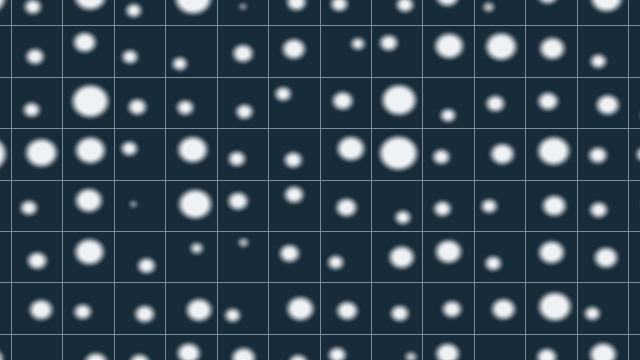
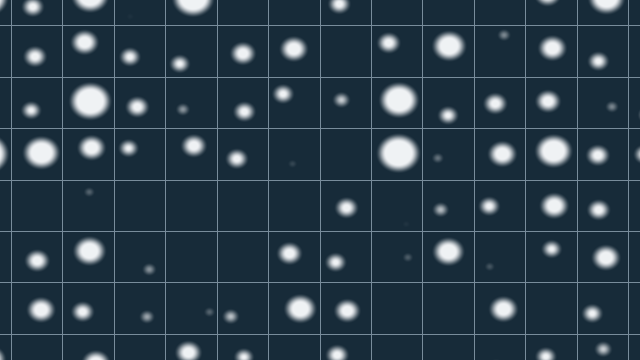
Glasses write-up: corrected refraction and gameplay text, clean diagrams, render script

diff --git a/Farsight_Glasses.html b/Farsight_Glasses.html
@@ -6,7 +6,7 @@
   <meta content="width=device-width, initial-scale=1.0" name="viewport">
 
   <title>Farsight - Rain on Glasses Shader</title>
-  <meta content="How the rain-on-glasses lens pass in Farsight works: a single URP screen pass with procedural drops that refract out-of-focus copies of the frame." name="description">
+  <meta content="How the rain-on-glasses lens pass in Farsight works: a URP screen effect with procedural drops that refract out-of-focus copies of the frame." name="description">
   <meta property="og:title" content="Rain on Glasses Shader | Anchit Sharma">
   <meta property="og:description" content="How the rain-on-glasses lens pass in Farsight works.">
   <meta property="og:type" content="website">
@@ -67,39 +67,43 @@
 <dd>Unity URP, HLSL, C#</dd>
 </dl></header><article class="project-copy project-writeup">
 
-<figure class="project-figure"><img src="assets/img/farsight/techart/farsight-glasses-lens-split.webp" alt="The same shot with the lens pass off on the left and on on the right" class="project-figure-image" decoding="async"><figcaption>Lens pass off on the left, on on the right.</figcaption></figure>
+<figure class="project-figure"><img src="assets/img/farsight/techart/farsight-glasses-lens-split.webp" alt="The same shot with the lens pass off on the left and on on the right" class="project-figure-image" decoding="async"><figcaption>Left: lens effect off. Right: on.</figcaption></figure>
 
 <h3 class="project-section-title">The goal</h3>
-<p>In Farsight you're wearing glasses, and it rains a lot. We wanted the rain to actually collect on your glasses when you're outside, as a small touch that makes you feel like you're there.</p>
+<p>In Farsight you're wearing glasses, and it rains a lot. I wanted the rain to actually collect on your glasses when you're outside, so it gets harder to see and the umbrella has a job to do.</p>
 <p>Since the drops are right in front of your eyes, they should be blurry and warp what's behind them. And they should react to you: building up when you're out in the open, drying once you head inside, and staying off while your umbrella's up.</p>
 
 <h3 class="project-section-title">How it works</h3>
-<p>It's a single full-screen pass on the player camera. No textures, no particles. It runs before post-processing, so bloom and grading hit the drops the same way they hit everything else. There are three parts to it: where the drops go, what each drop looks like, and how wet your glasses are.</p>
+<p>It's a full-screen effect on the player camera: two small blurred copies of the frame, then one pass that draws the drops. No drop textures, no particles. The drops are fixed to the screen, because your glasses move with your head. It runs before post-processing, so bloom and grading hit the drops the same way they hit everything else. There are three parts to it: where the drops go, what each drop looks like, and how wet your glasses are.</p>
 
 <h3 class="project-section-title">1. Placing the drops</h3>
-<p>The screen gets split into a grid, and each cell turns its position into a random number. That number picks whether there's a drop in the cell, how big it is and where it sits. Drops always stay inside their cell, so none of them get cut off at the edges.</p>
-<div class="project-figure figure-row"><img src="assets/img/farsight/glasses/gen-1-cells.png" alt="Screen divided into cells, each shaded by its random value" loading="lazy" decoding="async" style="image-rendering:auto"><img src="assets/img/farsight/glasses/gen-2-drop-per-cell.png" alt="One soft circle per grid cell" loading="lazy" decoding="async" style="image-rendering:auto"></div>
-<figure class="project-figure" style="margin-top:-24px"><figcaption>A random value per cell, then one drop per cell. These show the layout only.</figcaption></figure>
-<p>Three grids are stacked on top of each other for big, medium and small drops. The edge blur is the same width no matter how big the drop is, so the small ones are basically all blur. They end up as faint smudges, which is pretty much what tiny droplets look like on real glasses.</p>
+<p>The screen gets split into a grid, and each cell turns its position into a few random numbers. Those pick how big the cell's drop is, where it sits, and how early it shows up as the glasses get wet. To keep it cheap, each pixel only checks its own cell. That means a drop has to stay inside its cell, or it would get cut off at the edge.</p>
+<div class="project-figure figure-row"><img src="assets/img/farsight/glasses/gen-1-cells.png" alt="Screen divided into cells, each shaded by its random value" loading="lazy" decoding="async" style="image-rendering:auto"><img src="assets/img/farsight/glasses/gen-2-drop-per-cell.png" alt="Soft circles in a grid, at most one per cell, with some cells empty" loading="lazy" decoding="async" style="image-rendering:auto"></div>
+<figure class="project-figure" style="margin-top:-24px"><figcaption>A random value per cell, then at most one drop per cell. The lightest cells are still empty. Their drop shows up last. These show the layout only.</figcaption></figure>
+<p>A drop can't be bigger than its cell, and a single grid looks regular. So three grids are stacked on top of each other for big, medium and small drops, each with its own cell size and offset. The edge blur is the same width no matter how big the drop is, so the small ones are basically all blur. They end up as faint smudges, which is pretty much what tiny droplets look like on real glasses.</p>
 <figure class="project-figure"><img src="assets/img/farsight/glasses/gen-3-layers.png" alt="Large, medium and small drop layers on a game frame, then combined" class="project-figure-image" loading="lazy" decoding="async"><figcaption>Large, medium and small layers on a frame from the game, then all three together.</figcaption></figure>
 
 <h3 class="project-section-title">2. Drawing a drop</h3>
-<p>Each drop works like a tiny lens. Inside it, we sample the image from a point pushed away from the drop's centre, which flips and bends whatever's behind it.</p>
-<figure class="project-figure"><img src="assets/img/farsight/glasses/gen-5-refraction.png" alt="Checker pattern before and after one drop's refraction" class="project-figure-image" loading="lazy" decoding="async"></figure>
-<p>Blurring every drop separately would be expensive, so instead we make two blurry copies of the whole frame first, at a quarter and a sixteenth of the resolution. The drops sample from those, so they're always soft and it's basically free.</p>
-<div class="project-figure figure-row"><img src="assets/img/farsight/glasses/step-quarter.png" alt="Quarter-resolution copy of the frame" loading="lazy" decoding="async"><img src="assets/img/farsight/glasses/step-sixteenth.png" alt="Sixteenth-resolution copy of the frame" loading="lazy" decoding="async"></div>
+<p>Each drop works like a tiny lens. Inside it, I sample the image from the other side of the drop's centre, so each drop shows a small flipped view of what's behind it. The edge is darkened a little, like the rim of a real drop.</p>
+<figure class="project-figure"><img src="assets/img/farsight/glasses/gen-5-refraction.png" alt="A close crop of a game frame before and after one drop's refraction" class="project-figure-image" loading="lazy" decoding="async"><figcaption>One drop on a game frame, enlarged and shown without the blur. The roof corner comes out flipped.</figcaption></figure>
+<p>Blurring every drop separately would be expensive, so instead I make two blurry copies of the whole frame first, at a quarter and a sixteenth of the width and height. The drops sample from those, so they're always soft, and the blur costs the same however many drops there are.</p>
+<div class="project-figure figure-row"><img src="assets/img/farsight/glasses/step-quarter.png" alt="Quarter-resolution copy of the frame" loading="lazy" decoding="async" style="image-rendering:auto"><img src="assets/img/farsight/glasses/step-sixteenth.png" alt="Sixteenth-resolution copy of the frame" loading="lazy" decoding="async" style="image-rendering:auto"></div>
 <div class="project-figure figure-row"><img src="assets/img/farsight/glasses/step-frame.jpg" alt="Game frame before the lens pass" loading="lazy" decoding="async" style="image-rendering:auto"><img src="assets/img/farsight/glasses/step-result.jpg" alt="Same frame after the lens pass" loading="lazy" decoding="async" style="image-rendering:auto"></div>
 <figure class="project-figure" style="margin-top:-24px"><figcaption>The two blurred copies, then a game frame before and after the pass.</figcaption></figure>
 
 <h3 class="project-section-title">3. How wet the glasses are</h3>
-<p>Everything runs off one wetness value between 0 and 1. Each drop has its own threshold, so as it goes up, drops pop in and grow one at a time, and as it goes down they shrink away again.</p>
-<figure class="project-figure"><img src="assets/img/farsight/glasses/gen-4-wetness.webp" alt="Drops appearing on a game frame as wetness rises, then drying away" class="project-figure-image" loading="lazy" decoding="async"></figure>
-<pre><code>float size = lerp(0.14, 0.4, r2.x * r2.y)
+<p>Everything runs off one wetness value between 0 and 1. Each drop has its own threshold, so as it goes up, drops appear and grow one at a time, and as it goes down they shrink away again.</p>
+<figure class="project-figure"><img src="assets/img/farsight/glasses/gen-4-wetness.webp" alt="Drops appearing on a game frame as wetness rises, then drying away" class="project-figure-image" loading="lazy" decoding="async"><figcaption>Wetness rising from 0 to 1, then drying off again.</figcaption></figure>
+<pre><code>// cover: the wetness value. h: this drop's random threshold.
+// r2: two random numbers. Multiplying them makes small drops more common.
+// * 0.95: every drop has appeared by the time wetness reaches 1.
+// * 5.0: each drop grows in over 0.2 of wetness instead of snapping on.
+float size = lerp(0.14, 0.4, r2.x * r2.y)
            * saturate((cover - h * 0.95) * 5.0);</code></pre>
-<p>A small C# script sets that value based on what you're doing. Outside, your glasses get fully wet in about 25 seconds, and they dry in about 8 once you're indoors. Looking up at the sky gets them wet twice as fast, and looking down slows it right down. The umbrella keeps them dry, until you look up past 35 degrees. Past 60 it doesn't help at all.</p>
+<p>A small C# script sets that value based on what you're doing. It treats you as outside when a ray cast straight up from the camera hits nothing. Out there, your glasses get fully wet in about 25 seconds, and they dry in about 8 once you're indoors. Looking straight up gets them wet twice as fast, and looking straight down a quarter as fast. An open umbrella keeps them dry until you look up past 35 degrees. The umbrella tilts with your view, so from there its cover fades out, and past 60 it doesn't help at all.</p>
 <figure class="project-figure"><img src="assets/img/farsight/techart/farsight-glasses-umbrella.webp" alt="Rain beads on the lenses, the umbrella opens and the lenses dry" class="project-figure-image" loading="lazy" decoding="async"><figcaption>Drops build up, the umbrella opens, and the glasses clear.</figcaption></figure>
 
-<p>The images on this page were rendered with a Python port of the shader, run on frames from the game.</p>
+<p>The diagrams and step-by-step frames were rendered with a Python port of the shader, run on frames from the game. The split image at the top and the umbrella clip were captured in Unity.</p>
 
 </article><nav class="project-pagination" aria-label="Project navigation"><a href="Farsight_Grass.html" class="project-pagination-link project-pagination-link--previous"><span class="project-pagination-label">Previous write-up</span><strong>Grass Field Rendering</strong></a><a href="Farsight_Floaters.html" class="project-pagination-link project-pagination-link--next"><span class="project-pagination-label">Next write-up</span><strong>Eye Floaters</strong></a></nav>
 </div></section></main><!-- End #main -->

diff --git a/scripts/glasses.py b/scripts/glasses.py
@@ -1,0 +1,209 @@
+# Renders the diagrams for Farsight_Glasses.html from a Python port of
+# DropLayer() in the game's GlassesLens.shader:
+#   gen-1-cells.png           the grid, each cell shaded by its random value
+#   gen-2-drop-per-cell.png   one grid at wetness 0.7, so some cells are empty
+#   gen-3-layers.png          large, medium, small layers and all three, on a game frame
+#   gen-4-wetness.webp        wetness 0 -> 1 -> 0 on a game frame
+#   gen-5-refraction.png      one drop on a clean Unity still, real offset maths, no blur
+#   step-quarter.png          the 1/4 blur copy, upscaled smoothly
+#   step-sixteenth.png        the 1/16 blur copy, upscaled smoothly
+#   step-frame.jpg / step-result.jpg   a game frame before and after the pass
+#
+# Usage (from the repo root):
+#   python3 scripts/glasses.py [still] [out_dir]
+# still   defaults to the clean Unity capture in the Eye-Exam repo
+# out_dir defaults to assets/img/farsight/glasses
+# Needs numpy, Pillow and img2webp.
+import os, subprocess, sys, tempfile
+import numpy as np
+from PIL import Image, ImageDraw
+
+REPO = os.path.dirname(os.path.dirname(os.path.abspath(__file__)))
+# Source frame: a 1920x1080 still captured in Unity with the lens effect and the
+# Bleed volume override off, so edges have no colour fringe (the lens pass runs
+# before post-processing, so this is closer to what the drops really see).
+STILL = sys.argv[1] if len(sys.argv) > 1 else os.path.expanduser(
+    "~/Documents/GitHub/Eye-Exam/Recordings/Portfolio/raw/lens_off_nobleed_1116.png")
+OUT = sys.argv[2] if len(sys.argv) > 2 else os.path.join(REPO, "assets/img/farsight/glasses")
+DROP_CENTRE = (0.416, 0.302)  # refraction diagram: drop centre in the still (0..1, from top left)
+
+
+# ---- port of the shader ----
+def frac(x): return x - np.floor(x)
+
+def hash21(p):
+    p = frac(p * np.array([123.34, 456.21])); d = (p * (p + 45.32)).sum(-1, keepdims=True); p = p + d
+    return frac(p[..., 0] * p[..., 1])
+
+def hash22(p):
+    n = hash21(p); return np.stack([n, hash21(p + n[..., None] + 17.3)], -1)
+
+def ss(e0, e1, x):
+    t = np.clip((x - e0) / (e1 - e0), 0, 1); return t * t * (3 - 2 * t)
+
+def layer(p, scale, seed, cover, clock):
+    g = p * scale; idc = np.floor(g); f = frac(g) - 0.5
+    h = hash21(idc + seed)
+    phase = np.floor(clock * (0.04 + 0.06 * h) + h * 7.0)
+    r2 = hash22(idc + seed + phase[..., None] * 13.1)
+    blur = 0.012 * scale
+    size = (0.14 + (0.4 - 0.14) * r2[..., 0] * r2[..., 1]) * np.clip((cover - h * 0.95) * 5.0, 0, 1)
+    size = np.minimum(size, 0.48 - blur)
+    pos = (r2 - 0.5) * 2.0 * np.maximum(0.48 - size - blur, 0)[..., None]
+    d = f - pos; d[..., 1] *= 1.12
+    L = np.linalg.norm(d, axis=-1)
+    m = ss(size + blur, np.maximum(size - blur * 1.5, 0), L) * np.clip(size / (blur * 1.6), 0, 1)
+    m[size < 1e-3] = 0
+    dist = L / np.maximum(size, 1e-3); rim = ss(0.5, 1.0, dist) * m
+    off = -d / np.maximum(size, 1e-3)[..., None] * m[..., None]
+    return off, m, rim
+
+
+def save(a, name):
+    Image.fromarray(np.uint8(np.clip(a, 0, 1) * 255)).save(os.path.join(OUT, name))
+
+
+# ---- gen-2: one grid, partway wet ----
+def drop_per_cell():
+    W, H = 640, 360; asp = W / H
+    ys, xs = np.mgrid[0:H, 0:W]
+    uv = np.stack([(xs + .5) / W, 1 - (ys + .5) / H], -1)
+    p = np.stack([(uv[..., 0] - .5) * asp, uv[..., 1] - .5], -1)
+    BG = np.array([23, 43, 57]) / 255.; FG = np.array([0.94, 0.95, 0.96])
+    _, m, _ = layer(p, 7, 1.7, 0.7, 40.0)
+    im = Image.fromarray(np.uint8(np.clip(BG + (FG - BG) * m[..., None], 0, 1) * 255)); d = ImageDraw.Draw(im)
+    for k in range(-20, 40):
+        y = H * (0.5 - k / 7); x = W * 0.5 + k / 7 / asp * W
+        if 0 <= y <= H: d.line([(0, y), (W, y)], fill=(120, 140, 155), width=1)
+        if 0 <= x <= W: d.line([(x, 0), (x, H)], fill=(120, 140, 155), width=1)
+    im.save(os.path.join(OUT, "gen-2-drop-per-cell.png"))
+
+
+# ---- blur copies, upscaled the way the shader reads them (bilinear) ----
+def blur_copies(frame_small):
+    f = np.asarray(Image.open(frame_small).convert("RGB")).astype(np.float32) / 255; H, W, _ = f.shape
+    for k, name in ((4, "step-quarter.png"), (16, "step-sixteenth.png")):
+        h, w = H // k, W // k
+        s = f[:h * k, :w * k].reshape(h, k, w, k, 3).mean((1, 3))
+        Image.fromarray(np.uint8(np.clip(s, 0, 1) * 255)).resize((W // 2, H // 2), Image.BILINEAR).save(os.path.join(OUT, name))
+
+
+# ---- gen-5: one drop on the game frame ----
+def refraction(still):
+    F = np.asarray(Image.open(still).convert("RGB")).astype(np.float32) / 255; NH, NW, _ = F.shape
+    def bil(x, y):
+        x = np.clip(x, 0, NW - 1.001); y = np.clip(y, 0, NH - 1.001)
+        x0 = np.floor(x).astype(int); y0 = np.floor(y).astype(int)
+        fx = (x - x0)[..., None]; fy = (y - y0)[..., None]
+        return (F[y0, x0] * (1 - fx) + F[y0, x0 + 1] * fx) * (1 - fy) + (F[y0 + 1, x0] * (1 - fx) + F[y0 + 1, x0 + 1] * fx) * fy
+    cx, cy = DROP_CENTRE[0] * NW, DROP_CENTRE[1] * NH
+    side = 0.20 * NH; N = 360                               # crop a fifth of the frame height, show at 360 px
+    yy, xx = np.mgrid[0:N, 0:N]
+    px = cx + ((xx + .5) / N - .5) * side; py = cy + ((yy + .5) / N - .5) * side
+    scale = 7.0; size = 0.28; blur = 0.012 * scale          # a mid-size drop from the large layer
+    d = np.stack([(px - cx) / NH * scale, (py - cy) / NH * scale * 1.12], -1)   # cell units, as in the shader
+    L = np.linalg.norm(d, axis=-1)
+    m = ss(size + blur, max(size - blur * 1.5, 0), L) * min(size / (blur * 1.6), 1)
+    rim = ss(0.5, 1.0, L / size) * m
+    o = -d / size * m[..., None] * 0.08 * NH                # shader: uv + drop.xy * 0.08 (screen heights)
+    luma = lambda c: (c * np.array([.299, .587, .114])).sum(-1, keepdims=True)
+    before = bil(px, py)
+    seen = bil(px + o[..., 0], py + o[..., 1])
+    seen = seen * 1.08 + luma(seen) * 0.04
+    seen = seen * (1 - rim[..., None] * 0.75) + (seen * 0.45 + luma(before) * 0.1) * rim[..., None] * 0.75
+    after = before * (1 - m[..., None] * 0.9) + seen * m[..., None] * 0.9
+    save(np.concatenate([before, np.ones((N, 10, 3)), after], 1), "gen-5-refraction.png")
+
+
+# ---- gen-1: the grid, each cell its own random value ----
+def cells():
+    W, H = 640, 360; asp = W / H
+    ys, xs = np.mgrid[0:H, 0:W]
+    uv = np.stack([(xs + .5) / W, 1 - (ys + .5) / H], -1)
+    p = np.stack([(uv[..., 0] - .5) * asp, uv[..., 1] - .5], -1)
+    BG = np.array([23, 43, 57]) / 255.
+    h = hash21(np.floor(p * 7) + 1.7)
+    a = BG * (1 - h[..., None]) + np.array([0.55, 0.62, 0.68]) * h[..., None] * 0.9
+    im = Image.fromarray(np.uint8(np.clip(a, 0, 1) * 255)); d = ImageDraw.Draw(im)
+    for k in range(-20, 40):
+        y = H * (0.5 - k / 7); x = W * 0.5 + k / 7 / asp * W
+        if 0 <= y <= H: d.line([(0, y), (W, y)], fill=(120, 140, 155), width=1)
+        if 0 <= x <= W: d.line([(x, 0), (x, H)], fill=(120, 140, 155), width=1)
+    im.save(os.path.join(OUT, "gen-1-cells.png"))
+
+
+# ---- the whole lens pass on the 960x540 frame ----
+LAYERS = [(7, 1.7, 1.0, 1.0, 0), (12, 5.3, 1.0, 1.3, .37), (21, 9.1, 0.85, 1.7, .71)]
+
+class LensPass:
+    def __init__(self, frame_small):
+        f = np.asarray(Image.open(frame_small).convert("RGB")).astype(np.float32) / 255
+        self.f = f; H, W, _ = f.shape; self.W, self.H, self.asp = W, H, W / H
+        def down(k):
+            h, w = H // k, W // k; return f[:h * k, :w * k].reshape(h, k, w, k, 3).mean((1, 3))
+        up = lambda s: np.asarray(Image.fromarray(np.uint8(np.clip(s, 0, 1) * 255)).resize((W, H), Image.BILINEAR)).astype(np.float32) / 255
+        self.soft = up(down(4)); self.softer = up(down(16))
+        ys, xs = np.mgrid[0:H, 0:W]
+        self.uv = np.stack([(xs + .5) / W, 1 - (ys + .5) / H], -1)
+        self.p = np.stack([(self.uv[..., 0] - .5) * self.asp, self.uv[..., 1] - .5], -1)
+
+    def sample(self, img, u):
+        x = np.clip((u[..., 0] * self.W).astype(int), 0, self.W - 1)
+        y = np.clip(((1 - u[..., 1]) * self.H).astype(int), 0, self.H - 1); return img[y, x]
+
+    # soften=True fades the lens-wide softening with wetness, as the shader does
+    def render(self, cover, which=(0, 1, 2), clock=40.0, soften=True):
+        best = None
+        for i in which:
+            sc, sd, cm, ck, o = LAYERS[i]; L = layer(self.p + o, sc, sd, cover * cm, clock * ck)
+            if best is None: best = L
+            else:
+                t = L[1] > best[1]
+                best = (np.where(t[..., None], L[0], best[0]), np.where(t, L[1], best[1]), np.where(t, L[2], best[2]))
+        off, m, rim = best
+        luma = lambda c: (c * np.array([.299, .587, .114])).sum(-1, keepdims=True)
+        k = 0.18 * cover if soften else 0.18
+        col = self.f * (1 - k) + self.soft * k
+        o = off * np.array([1 / self.asp, 1.0]) * 0.08
+        seen = self.sample(self.softer, self.uv + o) * 0.6 + self.sample(self.soft, self.uv + o * 0.6) * 0.4
+        seen = seen * 1.08 + luma(seen) * 0.04
+        seen = seen * (1 - rim[..., None] * 0.75) + (seen * 0.45 + luma(self.soft) * 0.1) * rim[..., None] * 0.75
+        return col * (1 - m[..., None] * 0.9) + seen * m[..., None] * 0.9
+
+
+# ---- step-frame / step-result: the frame before and after ----
+def before_after(lp):
+    q = lambda a, n: Image.fromarray(np.uint8(np.clip(a, 0, 1) * 255)).save(os.path.join(OUT, n), quality=88)
+    q(lp.f, "step-frame.jpg"); q(lp.render(1.0), "step-result.jpg")
+
+
+# ---- gen-3 and gen-4: per layer and over wetness, on a crop of the frame ----
+def layers_and_wetness(lp):
+    img = lambda a: Image.fromarray(np.uint8(np.clip(a, 0, 1) * 255))
+    cx, cy, cw, ch = lp.W // 2 - 240, 40, 480, 270   # sky + building edge, so drops read at web size
+    crop = lambda a: a[cy:cy + ch, cx:cx + cw]
+    tiles = [crop(lp.render(1.0, (i,))) for i in range(3)] + [crop(lp.render(1.0))]
+    gap = np.ones((ch, 6, 3)); gv = np.ones((6, cw * 2 + 6, 3))
+    img(np.concatenate([np.concatenate([tiles[0], gap, tiles[1]], 1), gv,
+                        np.concatenate([tiles[2], gap, tiles[3]], 1)], 0)).save(os.path.join(OUT, "gen-3-layers.png"))
+    with tempfile.TemporaryDirectory() as fr:
+        vals = list(np.linspace(0, 1, 30)) + [1.0] * 10 + list(np.linspace(1, 0, 20)) + [0.0] * 5
+        for i, c in enumerate(vals): img(crop(lp.render(float(c)))).save(f"{fr}/f{i:03d}.png")
+        subprocess.run(["img2webp", "-loop", "0", "-lossy", "-q", "82", "-m", "4", "-d", "66"]
+                       + sorted(f"{fr}/{x}" for x in os.listdir(fr))
+                       + ["-o", os.path.join(OUT, "gen-4-wetness.webp")], check=True, capture_output=True)
+
+
+if __name__ == "__main__":
+    os.makedirs(OUT, exist_ok=True)
+    with tempfile.TemporaryDirectory() as tmp:
+        small = os.path.join(tmp, "frame.png")
+        Image.open(STILL).convert("RGB").resize((960, 540), Image.LANCZOS).save(small)
+        cells()
+        drop_per_cell()
+        blur_copies(small)
+        refraction(STILL)
+        lp = LensPass(small)
+        before_after(lp)
+        layers_and_wetness(lp)
+    print("wrote 10 images to", OUT)
